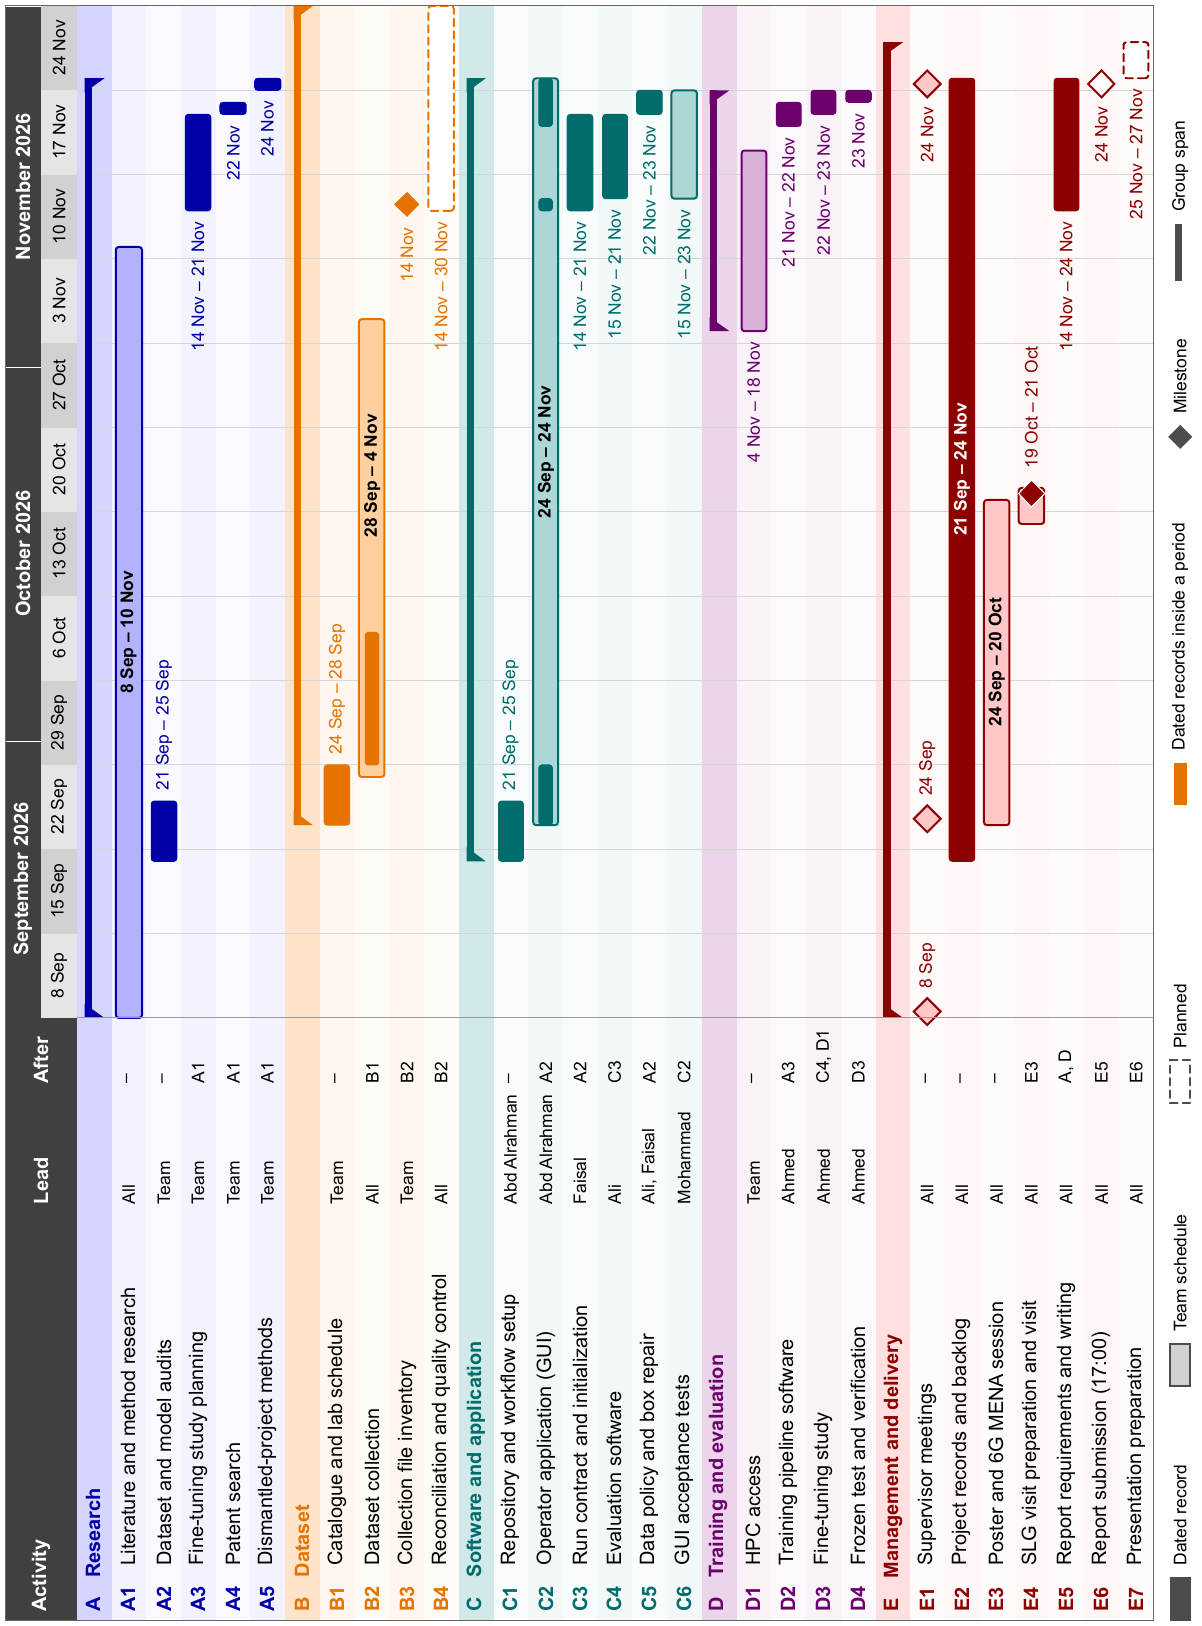
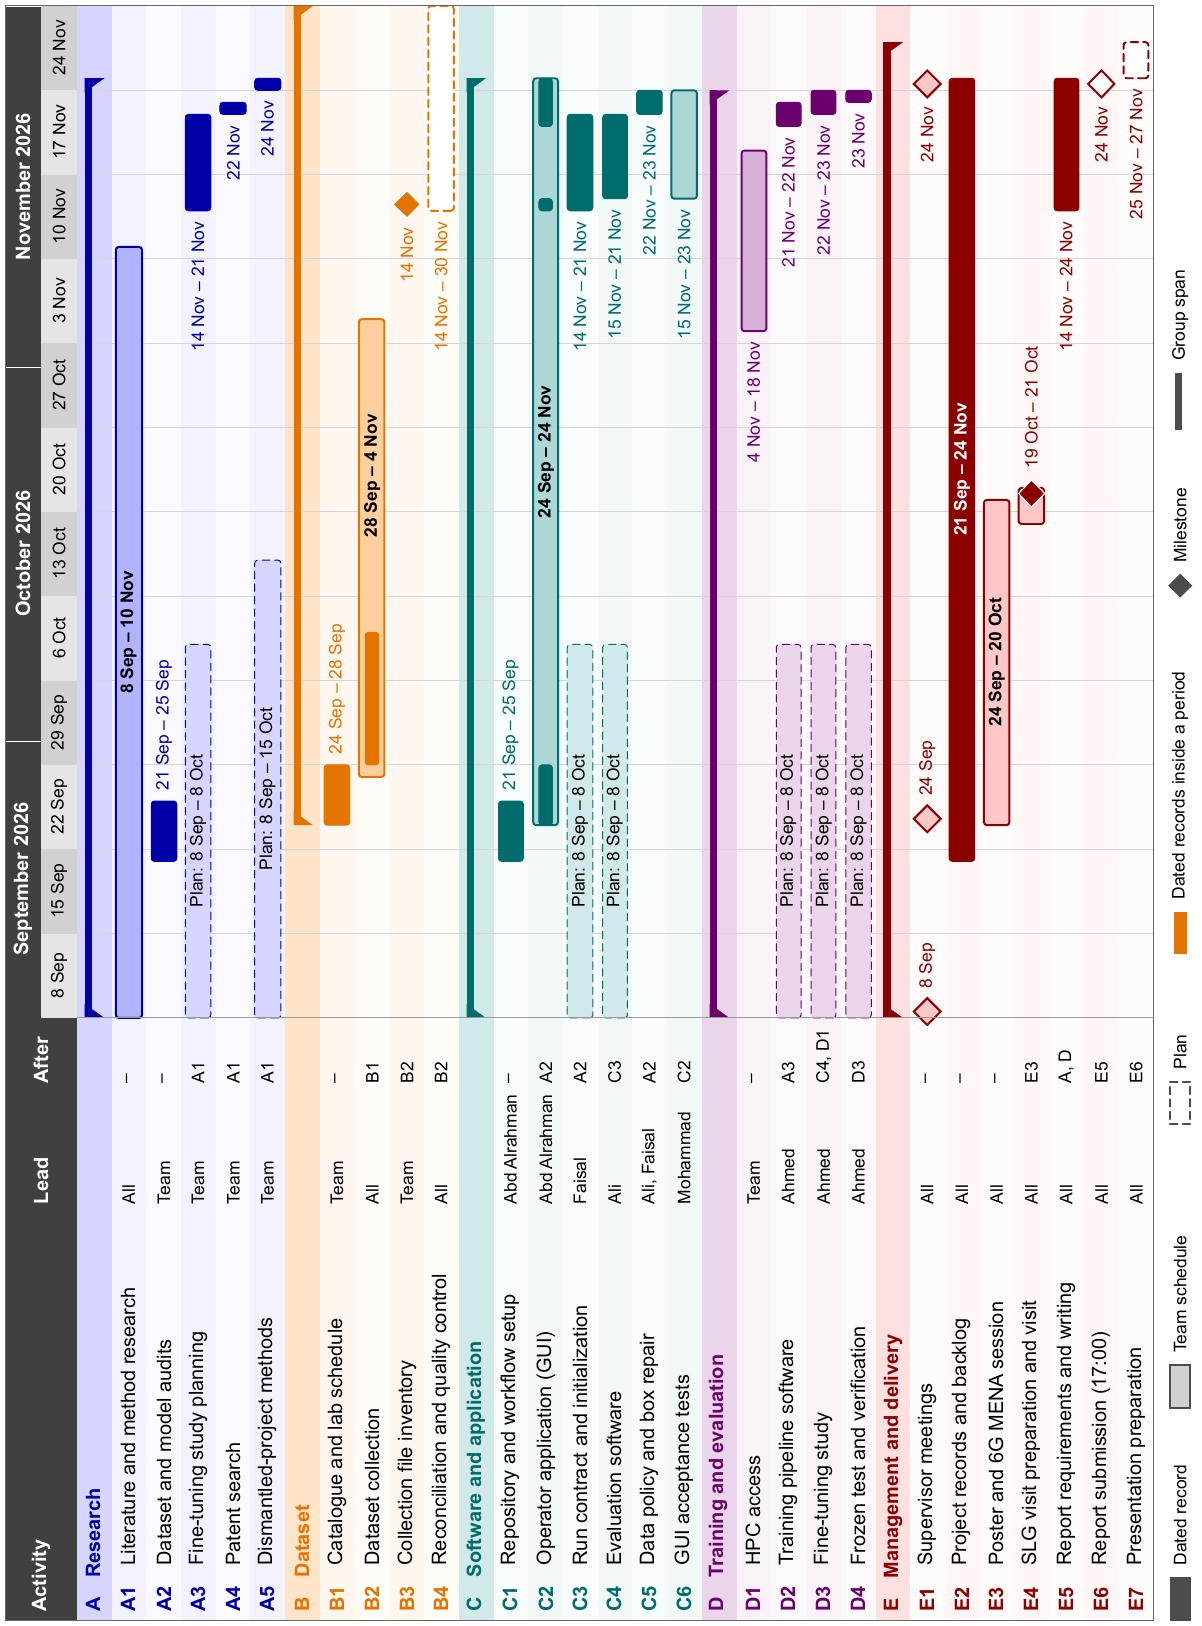
docs(report): add original plan periods to the Gantt chart

diff --git a/docs/report/figures/gantt.tex b/docs/report/figures/gantt.tex
@@ -97,6 +97,8 @@
 \node[anchor=west,font=\sffamily\scriptsize,text=blue!65!black] at (3.09,-1.23){21 Sep -- 25 Sep};
 \node[anchor=west,text=blue!65!black,font=\sffamily\footnotesize\bfseries] at (-8.5,-1.71){A3};\node[anchor=west] at (-7.85,-1.71){Fine-tuning study planning};
 \node[anchor=west,font=\sffamily\scriptsize] at (-2.75,-1.71){Team};\node[anchor=west,font=\sffamily\scriptsize] at (-1.05,-1.71){A1};
+\draw[fill=blue!30!white!55,draw=blue!65!black,densely dashed,rounded corners=1.2pt] (0.00,-1.89) rectangle (5.27,-1.53);
+\node[font=\sffamily\scriptsize] at (2.64,-1.71){Plan: 8 Sep -- 8 Oct};
 \draw[fill=blue!65!black,draw=blue!65!black,rounded corners=1.2pt] (11.39,-1.89) rectangle (12.75,-1.53);
 \node[anchor=east,font=\sffamily\scriptsize,text=blue!65!black] at (11.36,-1.71){14 Nov -- 21 Nov};
 \node[anchor=west,text=blue!65!black,font=\sffamily\footnotesize\bfseries] at (-8.5,-2.21){A4};\node[anchor=west] at (-7.85,-2.21){Patent search};
@@ -105,6 +107,8 @@
 \node[anchor=east,font=\sffamily\scriptsize,text=blue!65!black] at (12.72,-2.21){22 Nov};
 \node[anchor=west,text=blue!65!black,font=\sffamily\footnotesize\bfseries] at (-8.5,-2.69){A5};\node[anchor=west] at (-7.85,-2.69){Dismantled-project methods};
 \node[anchor=west,font=\sffamily\scriptsize] at (-2.75,-2.69){Team};\node[anchor=west,font=\sffamily\scriptsize] at (-1.05,-2.69){A1};
+\draw[fill=blue!30!white!55,draw=blue!65!black,densely dashed,rounded corners=1.2pt] (0.00,-2.88) rectangle (6.46,-2.51);
+\node[font=\sffamily\scriptsize] at (3.23,-2.69){Plan: 8 Sep -- 15 Oct};
 \draw[fill=blue!65!black,draw=blue!65!black,rounded corners=1.2pt] (13.09,-2.88) rectangle (13.26,-2.51);
 \node[anchor=east,font=\sffamily\scriptsize,text=blue!65!black] at (13.06,-2.69){24 Nov};
 \node[anchor=west,font=\sffamily\footnotesize\bfseries,text=orange!90!black] at (-8.5,-3.19){B\quad Dataset};
@@ -129,8 +133,8 @@
 \draw[fill=white,draw=orange!90!black,thick,densely dashed,rounded corners=1.2pt] (11.39,-5.32) rectangle (14.28,-4.96);
 \node[anchor=east,font=\sffamily\scriptsize,text=orange!90!black] at (11.36,-5.14){14 Nov -- 30 Nov};
 \node[anchor=west,font=\sffamily\footnotesize\bfseries,text=teal!85!black] at (-8.5,-5.63){C\quad Software and application};
-\fill[teal!85!black] (2.21,-5.60) rectangle (13.26,-5.50);
-\fill[teal!85!black] (2.21,-5.50)--(2.41,-5.50)--(2.21,-5.77)--cycle;
+\fill[teal!85!black] (0.00,-5.60) rectangle (13.26,-5.50);
+\fill[teal!85!black] (0.00,-5.50)--(0.20,-5.50)--(0.00,-5.77)--cycle;
 \fill[teal!85!black] (13.26,-5.50)--(13.06,-5.50)--(13.26,-5.77)--cycle;
 \node[anchor=west,text=teal!85!black,font=\sffamily\footnotesize\bfseries] at (-8.5,-6.12){C1};\node[anchor=west] at (-7.85,-6.12){Repository and workflow setup};
 \node[anchor=west,font=\sffamily\scriptsize] at (-2.75,-6.12){Abd Alrahman};\node[anchor=west,font=\sffamily\scriptsize] at (-1.05,-6.12){--};
@@ -145,10 +149,14 @@
 \draw[fill=teal!85!black,draw=teal!85!black,rounded corners=1.2pt] (12.58,-6.71) rectangle (13.26,-6.52);
 \node[anchor=west,text=teal!85!black,font=\sffamily\footnotesize\bfseries] at (-8.5,-7.10){C3};\node[anchor=west] at (-7.85,-7.10){Run contract and initialization};
 \node[anchor=west,font=\sffamily\scriptsize] at (-2.75,-7.10){Faisal};\node[anchor=west,font=\sffamily\scriptsize] at (-1.05,-7.10){A2};
+\draw[fill=teal!32!white!55,draw=teal!85!black,densely dashed,rounded corners=1.2pt] (0.00,-7.28) rectangle (5.27,-6.92);
+\node[font=\sffamily\scriptsize] at (2.64,-7.10){Plan: 8 Sep -- 8 Oct};
 \draw[fill=teal!85!black,draw=teal!85!black,rounded corners=1.2pt] (11.39,-7.28) rectangle (12.75,-6.92);
 \node[anchor=east,font=\sffamily\scriptsize,text=teal!85!black] at (11.36,-7.10){14 Nov -- 21 Nov};
 \node[anchor=west,text=teal!85!black,font=\sffamily\footnotesize\bfseries] at (-8.5,-7.59){C4};\node[anchor=west] at (-7.85,-7.59){Evaluation software};
 \node[anchor=west,font=\sffamily\scriptsize] at (-2.75,-7.59){Ali};\node[anchor=west,font=\sffamily\scriptsize] at (-1.05,-7.59){C3};
+\draw[fill=teal!32!white!55,draw=teal!85!black,densely dashed,rounded corners=1.2pt] (0.00,-7.77) rectangle (5.27,-7.42);
+\node[font=\sffamily\scriptsize] at (2.64,-7.59){Plan: 8 Sep -- 8 Oct};
 \draw[fill=teal!85!black,draw=teal!85!black,rounded corners=1.2pt] (11.56,-7.77) rectangle (12.75,-7.42);
 \node[anchor=east,font=\sffamily\scriptsize,text=teal!85!black] at (11.53,-7.59){15 Nov -- 21 Nov};
 \node[anchor=west,text=teal!85!black,font=\sffamily\footnotesize\bfseries] at (-8.5,-8.08){C5};\node[anchor=west] at (-7.85,-8.08){Data policy and box repair};
@@ -160,8 +168,8 @@
 \draw[fill=teal!32,draw=teal!85!black,thick,rounded corners=1.2pt] (11.56,-8.75) rectangle (13.09,-8.39);
 \node[anchor=east,font=\sffamily\scriptsize,text=teal!85!black] at (11.53,-8.57){15 Nov -- 23 Nov};
 \node[anchor=west,font=\sffamily\footnotesize\bfseries,text=violet!85!black] at (-8.5,-9.06){D\quad Training and evaluation};
-\fill[violet!85!black] (9.69,-9.04) rectangle (13.09,-8.93);
-\fill[violet!85!black] (9.69,-8.93)--(9.89,-8.93)--(9.69,-9.21)--cycle;
+\fill[violet!85!black] (0.00,-9.04) rectangle (13.09,-8.93);
+\fill[violet!85!black] (0.00,-8.93)--(0.20,-8.93)--(0.00,-9.21)--cycle;
 \fill[violet!85!black] (13.09,-8.93)--(12.89,-8.93)--(13.09,-9.21)--cycle;
 \node[anchor=west,text=violet!85!black,font=\sffamily\footnotesize\bfseries] at (-8.5,-9.55){D1};\node[anchor=west] at (-7.85,-9.55){HPC access};
 \node[anchor=west,font=\sffamily\scriptsize] at (-2.75,-9.55){Team};\node[anchor=west,font=\sffamily\scriptsize] at (-1.05,-9.55){--};
@@ -169,14 +177,20 @@
 \node[anchor=east,font=\sffamily\scriptsize,text=violet!85!black] at (9.66,-9.55){4 Nov -- 18 Nov};
 \node[anchor=west,text=violet!85!black,font=\sffamily\footnotesize\bfseries] at (-8.5,-10.04){D2};\node[anchor=west] at (-7.85,-10.04){Training pipeline software};
 \node[anchor=west,font=\sffamily\scriptsize] at (-2.75,-10.04){Ahmed};\node[anchor=west,font=\sffamily\scriptsize] at (-1.05,-10.04){A3};
+\draw[fill=violet!30!white!55,draw=violet!85!black,densely dashed,rounded corners=1.2pt] (0.00,-10.22) rectangle (5.27,-9.87);
+\node[font=\sffamily\scriptsize] at (2.64,-10.04){Plan: 8 Sep -- 8 Oct};
 \draw[fill=violet!85!black,draw=violet!85!black,rounded corners=1.2pt] (12.58,-10.22) rectangle (12.92,-9.87);
 \node[anchor=east,font=\sffamily\scriptsize,text=violet!85!black] at (12.55,-10.04){21 Nov -- 22 Nov};
 \node[anchor=west,text=violet!85!black,font=\sffamily\footnotesize\bfseries] at (-8.5,-10.54){D3};\node[anchor=west] at (-7.85,-10.54){Fine-tuning study};
 \node[anchor=west,font=\sffamily\scriptsize] at (-2.75,-10.54){Ahmed};\node[anchor=west,font=\sffamily\scriptsize] at (-1.05,-10.54){C4, D1};
+\draw[fill=violet!30!white!55,draw=violet!85!black,densely dashed,rounded corners=1.2pt] (0.00,-10.71) rectangle (5.27,-10.36);
+\node[font=\sffamily\scriptsize] at (2.64,-10.54){Plan: 8 Sep -- 8 Oct};
 \draw[fill=violet!85!black,draw=violet!85!black,rounded corners=1.2pt] (12.75,-10.71) rectangle (13.09,-10.36);
 \node[anchor=east,font=\sffamily\scriptsize,text=violet!85!black] at (12.72,-10.54){22 Nov -- 23 Nov};
 \node[anchor=west,text=violet!85!black,font=\sffamily\footnotesize\bfseries] at (-8.5,-11.03){D4};\node[anchor=west] at (-7.85,-11.03){Frozen test and verification};
 \node[anchor=west,font=\sffamily\scriptsize] at (-2.75,-11.03){Ahmed};\node[anchor=west,font=\sffamily\scriptsize] at (-1.05,-11.03){D3};
+\draw[fill=violet!30!white!55,draw=violet!85!black,densely dashed,rounded corners=1.2pt] (0.00,-11.21) rectangle (5.27,-10.85);
+\node[font=\sffamily\scriptsize] at (2.64,-11.03){Plan: 8 Sep -- 8 Oct};
 \draw[fill=violet!85!black,draw=violet!85!black,rounded corners=1.2pt] (12.92,-11.21) rectangle (13.09,-10.85);
 \node[anchor=east,font=\sffamily\scriptsize,text=violet!85!black] at (12.89,-11.03){23 Nov};
 \node[anchor=west,font=\sffamily\footnotesize\bfseries,text=red!55!black] at (-8.5,-11.52){E\quad Management and delivery};
@@ -218,10 +232,10 @@
 \node[anchor=east,font=\sffamily\scriptsize,text=red!55!black] at (13.23,-14.95){25 Nov -- 27 Nov};
 \draw[black!60] (-8.5,-15.19) rectangle (14.28,1.0);\draw[black!40] (0,0)--(0,-15.19);
 \draw[fill=black!70,draw=black!70] (-8.50,-15.71) rectangle (-7.90,-15.43);\node[anchor=west,font=\sffamily\scriptsize] at (-7.85,-15.57){Dated record};
-\draw[fill=black!18,draw=black!70,thick] (-5.20,-15.71) rectangle (-4.60,-15.43);\node[anchor=west,font=\sffamily\scriptsize] at (-4.55,-15.57){Team schedule};
-\draw[fill=white,draw=black!70,thick,densely dashed] (-1.20,-15.71) rectangle (-0.60,-15.43);\node[anchor=west,font=\sffamily\scriptsize] at (-0.55,-15.57){Planned};
-\fill[orange!90!black] (3.00,-15.66) rectangle (3.60,-15.48);\node[anchor=west,font=\sffamily\scriptsize] at (3.65,-15.57){Dated records inside a period};
-\fill[black!70] (8.20,-15.40)--(8.37,-15.57)--(8.20,-15.74)--(8.03,-15.57)--cycle;\node[anchor=west,font=\sffamily\scriptsize] at (8.40,-15.57){Milestone};
-\fill[black!70] (10.40,-15.59) rectangle (11.20,-15.49);\node[anchor=west,font=\sffamily\scriptsize] at (11.25,-15.57){Group span};
+\draw[fill=black!18,draw=black!70,thick] (-5.50,-15.71) rectangle (-4.90,-15.43);\node[anchor=west,font=\sffamily\scriptsize] at (-4.85,-15.57){Team schedule};
+\draw[fill=white,draw=black!70,thick,densely dashed] (-1.50,-15.71) rectangle (-0.90,-15.43);\node[anchor=west,font=\sffamily\scriptsize] at (-0.85,-15.57){Plan};
+\fill[orange!90!black] (0.90,-15.66) rectangle (1.50,-15.48);\node[anchor=west,font=\sffamily\scriptsize] at (1.55,-15.57){Dated records inside a period};
+\fill[black!70] (6.10,-15.40)--(6.27,-15.57)--(6.10,-15.74)--(5.93,-15.57)--cycle;\node[anchor=west,font=\sffamily\scriptsize] at (6.30,-15.57){Milestone};
+\fill[black!70] (8.30,-15.59) rectangle (9.10,-15.49);\node[anchor=west,font=\sffamily\scriptsize] at (9.15,-15.57){Group span};
 \end{tikzpicture}}
 \end{document}

diff --git a/docs/report/chapters/appendices.tex b/docs/report/chapters/appendices.tex
@@ -11,13 +11,18 @@ collection period (28~September to 4~November) follow the team schedule. The sca
 files, dated 29~September to 9~October, are marked inside
 the collection bar. Work on the operator application started after the second advisor meeting
 on 24~September and continued to the final walkthrough; its dated repository and test records
-are marked inside the bar. Bars show the period of an activity.
+are marked inside the bar. The plan bars follow the
+first advisor meeting of 8~September, which set the single-scan prototype (training, testing
+and documentation) for 8~October and the distributed workstream for 15~October. The second
+meeting of 24~September put the dataset collection and the operator application first.
+Cluster access followed in November, and the single-scan software and study were completed
+then.
 
 \begin{figure}[p]\centering
 \includegraphics[width=\textwidth,height=0.87\textheight,keepaspectratio]{gantt.png}
 \caption{Gantt chart of SDP~I, September to November 2026.}
 \label{fig:gantt}
-\floatnote{Drawn sideways. ``After'' gives the preceding activity. Dated records are repository states, files, run records or, for the SLG visit, the team; team schedule bars are stated by the team.}
+\floatnote{Drawn sideways. ``After'' gives the preceding activity. Dashed bars are the plan; solid and pale bars are the work done. Dated records are repository states, files, run records or, for the SLG visit, the team; team schedule bars are stated by the team.}
 \end{figure}
 
 Table~\ref{tab:dependencies} lists the dependencies of the final SDP~I deliverables
